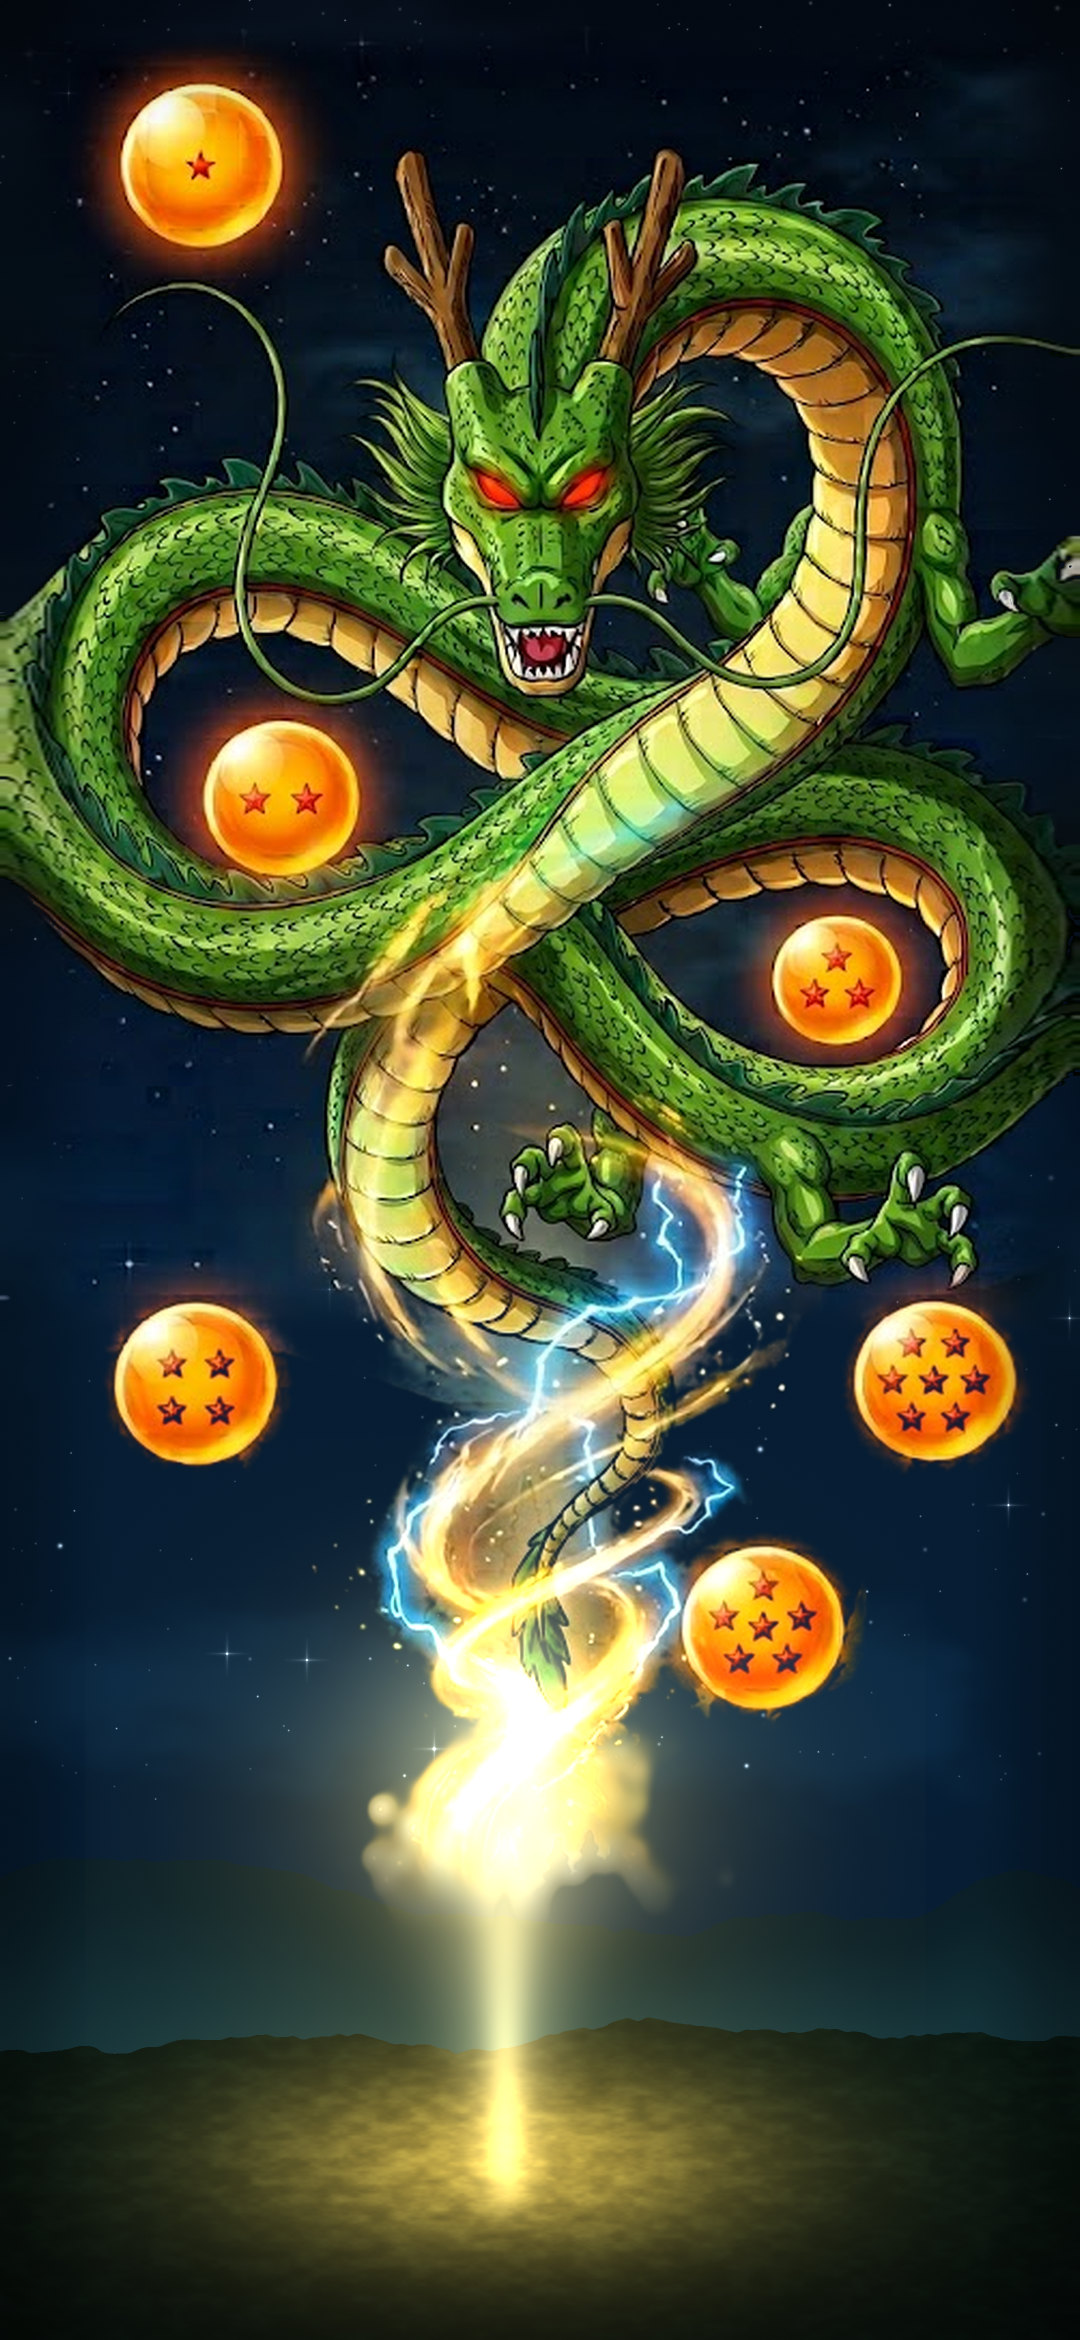
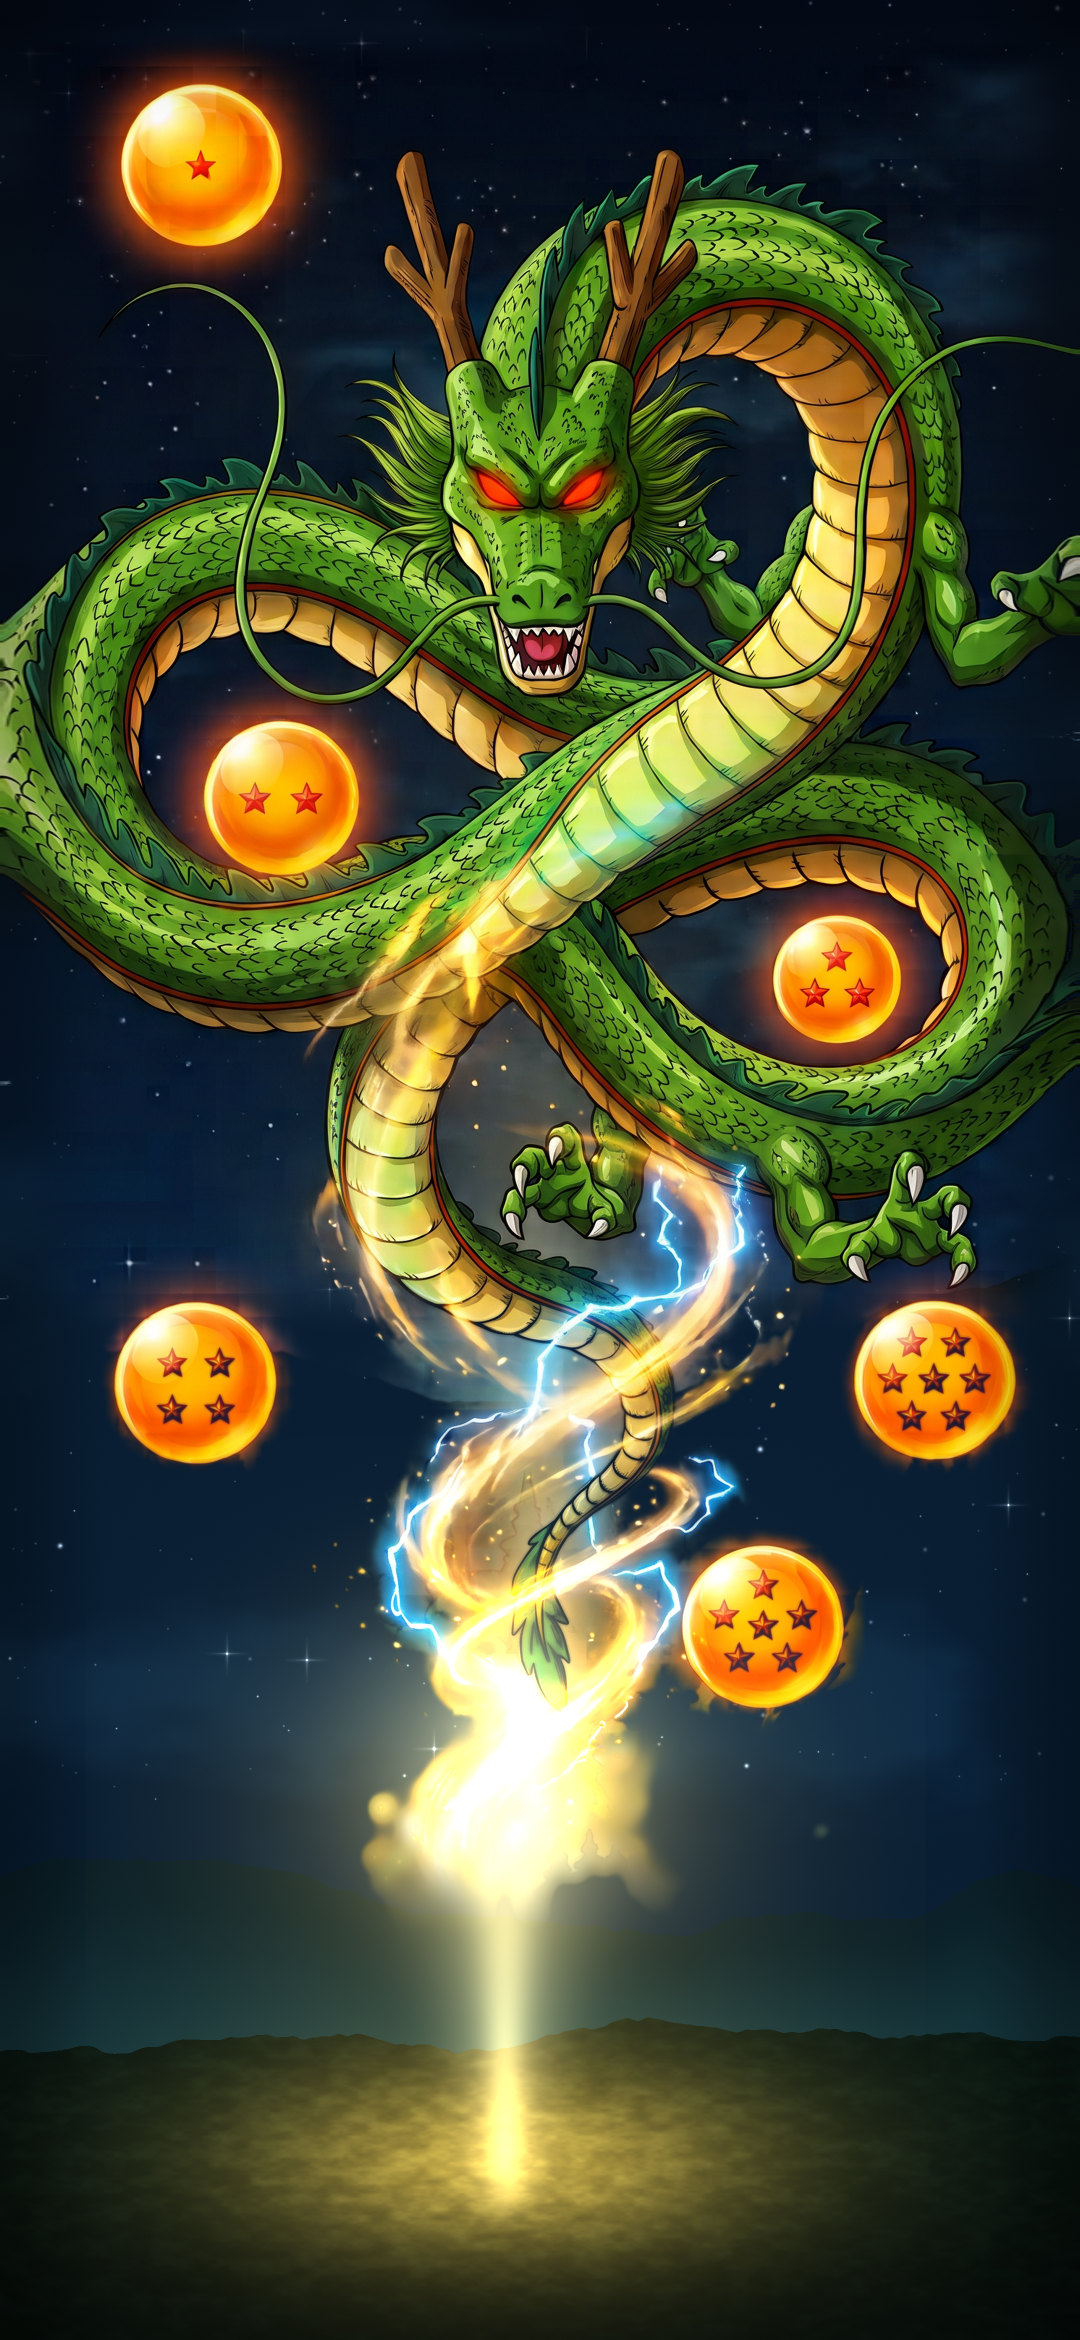
Pozadina prijave iz originalne slike (1408 x 3040), oštrija
- shenron_source.jpg je originalna slika iz Nano Banane (umjesto umanjene
  474 px verzije iz chata), pa se slika smanjuje i ostaje oštra
- login.js prihvaća .jpg ili .png i izoštrava samo kad povećava

diff --git a/scripts/auth-backgrounds/login.js b/scripts/auth-backgrounds/login.js
@@ -13,7 +13,10 @@ const { W, H, SS, w, h, R, G, B, clamp, mix, smooth, hex, forBox, forAll, paint,
 
 const PROJECT = path.resolve(__dirname, '../..');
 const OUT = path.join(PROJECT, 'assets/images/auth');
-const SOURCE = path.join(__dirname, 'shenron_source.png');
+// izvorna slika (originalna rezolucija iz Nano Banane), .jpg ili .png
+const SOURCE = ['shenron_source.jpg', 'shenron_source.png']
+  .map((name) => path.join(__dirname, name))
+  .find((file) => fs.existsSync(file));
 const PREVIEW = process.argv.includes('--preview') ? fs.mkdtempSync(path.join(os.tmpdir(), 'auth-bg-')) : null;
 
 // Svi redovi izvorne slike ispod (FOREST, granice vrtloga) su u jedinicama slike širine 474 px;
@@ -452,7 +455,11 @@ async function main() {
   const src = await loadSource();
   const rowColor = skyRows(src);
   const bw = Math.round(REF_W * K * SS);
-  const big = sharpen(resize(src, bw, Math.round((bw * src.h) / src.w)));
+  // izoštravanje samo kad se mala slika povećava (velika se smanjuje i ostaje oštra)
+  const upscale = (REF_W * K) / src.w;
+  const resized = resize(src, bw, Math.round((bw * src.h) / src.w));
+  const big = upscale > 1.05 ? sharpen(resized, 1.6, Math.min(0.55, (upscale - 1) * 0.5)) : resized;
+  console.log(`izvor ${src.w} x ${src.h}, ${upscale > 1 ? 'povećanje' : 'smanjenje'} ${upscale.toFixed(2)}x`);
   sky(rowColor);
   stars();
   landscape();

diff --git a/CLAUDE.md b/CLAUDE.md
@@ -60,7 +60,7 @@ The function is deployed manually in the Appwrite console by uploading a `tar.gz
 
 - **No native SVG.** `react-native-svg` was removed on purpose. Graphics are PNGs (body layers, `assets/images/avatars/*.png`, registered in `components/avatars.js`) or plain Views (`KettlebellSlider.jsx`). The auth backgrounds in `assets/images/auth/` come from the Node scripts in `scripts/auth-backgrounds/`, which are not part of the app bundle:
   - `arena.js` draws the sign-up background (`signup_arena.jpg`) as original art.
-  - `login.js` composes the login background (`login_shenron.jpg`) from the user's own Nano Banana image `shenron_source.png`. It scales the image down slightly and stretches its outer columns so the dragon still reaches the screen edges. It also adds sky on top and replaces the forest with mountains, golden ground and a light beam. It works with any resolution of the source image.
+  - `login.js` composes the login background (`login_shenron.jpg`) from the user's own Nano Banana image `shenron_source.jpg` (original 1408 x 3040, scaled down). It scales the image down slightly and stretches its outer columns so the dragon still reaches the screen edges. It also adds sky on top and replaces the forest with mountains, golden ground and a light beam. It works with any resolution of the source image.
   - Pass `--preview` to either script to get previews.
 - **Fabric integer props.** On Android Fabric, props typed as integers throw "Loss of precision during arithmetic conversion" if given a float (e.g. `accessibilityValue.now`). Round such values.
 - **`KettlebellSlider` gestures.** It uses `PanResponder` with `collapsable={false}` and a `pointerEvents="none"` drawing layer. Position comes from `locationX/Y` at grant and `pageX/Y` while moving, so dragging outside the track works. The parent disables `ScrollView` scrolling during a drag through `onDragStart`/`onDragEnd`.
